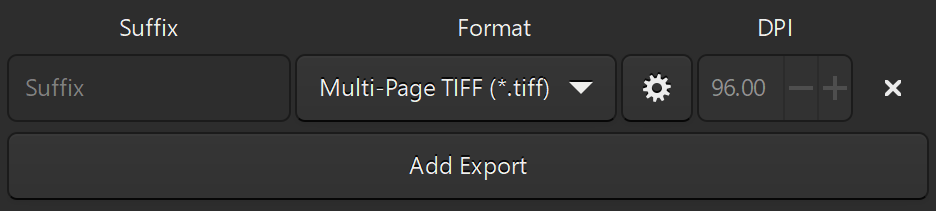
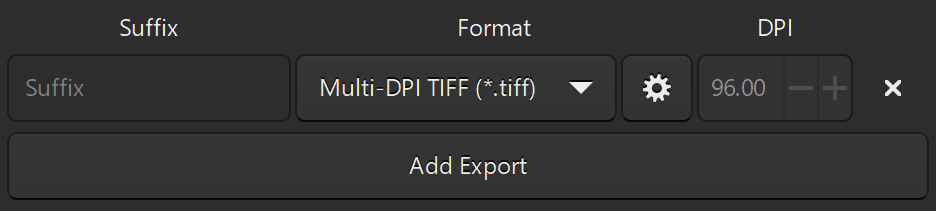
Rename Multi-Page to Multi-DPI

Changed region(s): [[0.4028, 0.3412, 0.5887, 0.4834]]

diff --git a/export_multi_dpi_tiff/export_multi_dpi_tiff.py b/export_multi_dpi_tiff/export_multi_dpi_tiff.py
@@ -23,15 +23,16 @@
 # SOFTWARE.
 
 """
-Convert SVT to Multi-Page Tiff using Output extension.
+Convert SVG to Multi-DPI Tiff using Output extension.
 """
 
 ### Versions
 ## 1.0.0 - 2024-11-13 - Initial Release
 ## 1.0.1 - 2024-11-13 - Change python license to comment.
 ## 1.1.0 - 2024-11-14 - Add `take_multiple_snapshot` to improve speed.
+## 1.2.0 - 2024-11-20 - Rename Multi-Page to Multi-DPI
 
-__version__ = "1.1.0"
+__version__ = "1.2.0"
 
 import os
 import io
@@ -67,11 +68,11 @@ class MultiPageTiffOutput(OutputExtension):
 		pars.add_argument("--tab")
 		pars.add_argument("--compression", default="tiff_deflate")
 		# Dpi
-		pars.add_argument("--dpi_10", type=inkex.Boolean, default=True)
-		pars.add_argument("--dpi_15", type=inkex.Boolean, default=True)
-		pars.add_argument("--dpi_20", type=inkex.Boolean, default=True)
-		pars.add_argument("--dpi_30", type=inkex.Boolean, default=True)
-		pars.add_argument("--dpi_40", type=inkex.Boolean, default=True)
+		pars.add_argument("--dpi_100", type=inkex.Boolean, default=True)
+		pars.add_argument("--dpi_150", type=inkex.Boolean, default=True)
+		pars.add_argument("--dpi_200", type=inkex.Boolean, default=True)
+		pars.add_argument("--dpi_300", type=inkex.Boolean, default=True)
+		pars.add_argument("--dpi_400", type=inkex.Boolean, default=True)
 		pars.add_argument("-i", "--dpi", type=float, default=96.0)
 
 	def save(self, stream):
@@ -80,11 +81,11 @@ class MultiPageTiffOutput(OutputExtension):
 		d = self.options.dpi
 		images = []
 		dpis = []
-		if self.options.dpi_10: dpis.append(d)
-		if self.options.dpi_15: dpis.append(d*1.5)
-		if self.options.dpi_20: dpis.append(d*2.0)
-		if self.options.dpi_30: dpis.append(d*3.0)
-		if self.options.dpi_40: dpis.append(d*4.0)
+		if self.options.dpi_100: dpis.append(d)
+		if self.options.dpi_150: dpis.append(d*1.5)
+		if self.options.dpi_200: dpis.append(d*2.0)
+		if self.options.dpi_300: dpis.append(d*3.0)
+		if self.options.dpi_400: dpis.append(d*4.0)
 		
 		filenames = take_multiple_snapshot(
 			self.document,

diff --git a/README.md b/README.md
@@ -1,13 +1,14 @@
-# inkscape-export-multi-page-tiff
+# inkscape-export-multi-dpi-tiff
 
 [![inkscape](https://img.shields.io/badge/inkscape-1.4-blue?logo=inkscape)](https://inkscape.org)
 [![License MIT](https://img.shields.io/badge/License-MIT-blue.svg)](LICENSE)
+[![inkscape extension](https://img.shields.io/badge/inkscape-extension-black?logo=inkscape)](https://inkscape.org/gallery/item/54143)
 
-Inkscape Extension to Export Multi-Page TIFF files with options for 1.0, 1.5, 2.0, 3.0 and/or 4.0 scale for the base DPI.
+Inkscape Extension to Export Multi-DPI TIFF files with options for 1.0, 1.5, 2.0, 3.0 and/or 4.0 scale for the base DPI.
 
 ## Description
 
-The `Multi-Page TIFF (*.tiff)` is available in the Export section.
+The `Multi-DPI TIFF (*.tiff)` is available in the Export section.
 
 ### Single File
 
@@ -25,20 +26,20 @@ Options allow to select the compression and the base DPI of the image, and five 
 
 ## Install
 
-Download from [Inkscape's Extensions page](https://inkscape.org/~ricaun/%E2%98%85export-multi-page-tiff) or [Latest release](../../releases/latest).
+Download from [Inkscape's Extensions page](https://inkscape.org/gallery/item/54143) or [Latest release](../../releases/latest).
 
 ### Extension Manager
 
-In the `Extension Manager` and search for `tiff`, and install the package `Export Multi-Page Tiff` author `ricaun`.
+In the `Extension Manager` and search for `tiff`, and install the package `Export Multi-DPI Tiff` author `ricaun`.
 
 ![Manage-Extensions](/assets/Manage-Extensions.png)
 
 ### Windows
-Copy extension files `export_multi_page_tiff.inx` and `export_multi_page_tiff.py` into `%appdata%/inkscape/extensions` or the path shown in Inkscape preferences.
+Copy extension files `export_multi_dpi_tiff.inx` and `export_multi_dpi_tiff.py` into `%appdata%/inkscape/extensions` or the path shown in Inkscape preferences.
 See Edit > Preferences > System: User extensions.
 
 ### Linux
-Copy extension files `export_multi_page_tiff.inx` and `export_multi_page_tiff.py` into `~/.config/inkscape/extensions`.
+Copy extension files `export_multi_dpi_tiff.inx` and `export_multi_dpi_tiff.py` into `~/.config/inkscape/extensions`.
 
 ## License
 

diff --git a/release_extension/README.md b/release_extension/README.md
@@ -13,17 +13,17 @@ First is necessary to enable the checksums in the user profile, just add some te
 To create the `MD5` checksums in windows the code below is used in the `zip` file.
 
 ```cmd
-powershell -Command "Get-FileHash -Path 'export_multi_page_tiff.zip' -Algorithm MD5 | Select-Object -ExpandProperty Hash | ForEach-Object { $_.ToLower() + '  ' + 'export_multi_page_tiff.zip' } | Out-File -FilePath 'export_multi_page_tiff.md5' -encoding ascii"
+powershell -Command "Get-FileHash -Path 'export_multi_dpi_tiff.zip' -Algorithm MD5 | Select-Object -ExpandProperty Hash | ForEach-Object { $_.ToLower() + '  ' + 'export_multi_dpi_tiff.zip' } | Out-File -FilePath 'export_multi_dpi_tiff.md5' -encoding ascii"
 ```
 
-This generate the `export_multi_page_tiff.md5` to be uploaded with the `zip` file in the [inkscape extensions](https://inkscape.org/develop/extensions/)
+This generate the `export_multi_dpi_tiff.md5` to be uploaded with the `zip` file in the [inkscape extensions](https://inkscape.org/develop/extensions/)
 
 ![image](https://github.com/user-attachments/assets/22121477-cdad-47f3-81bf-181ec75aa508)
 
 
 ## Release Automation
 
-The [release.cmd](release.cmd) file create the `zip` file using the `export_multi_page_tiff` folder and create the `md5` checksums for the `zip` file.
+The [release.cmd](release.cmd) file create the `zip` file using the `export_multi_dpi_tiff` folder and create the `md5` checksums for the `zip` file.
 
 The files is created inside the `Release` folder.
 
